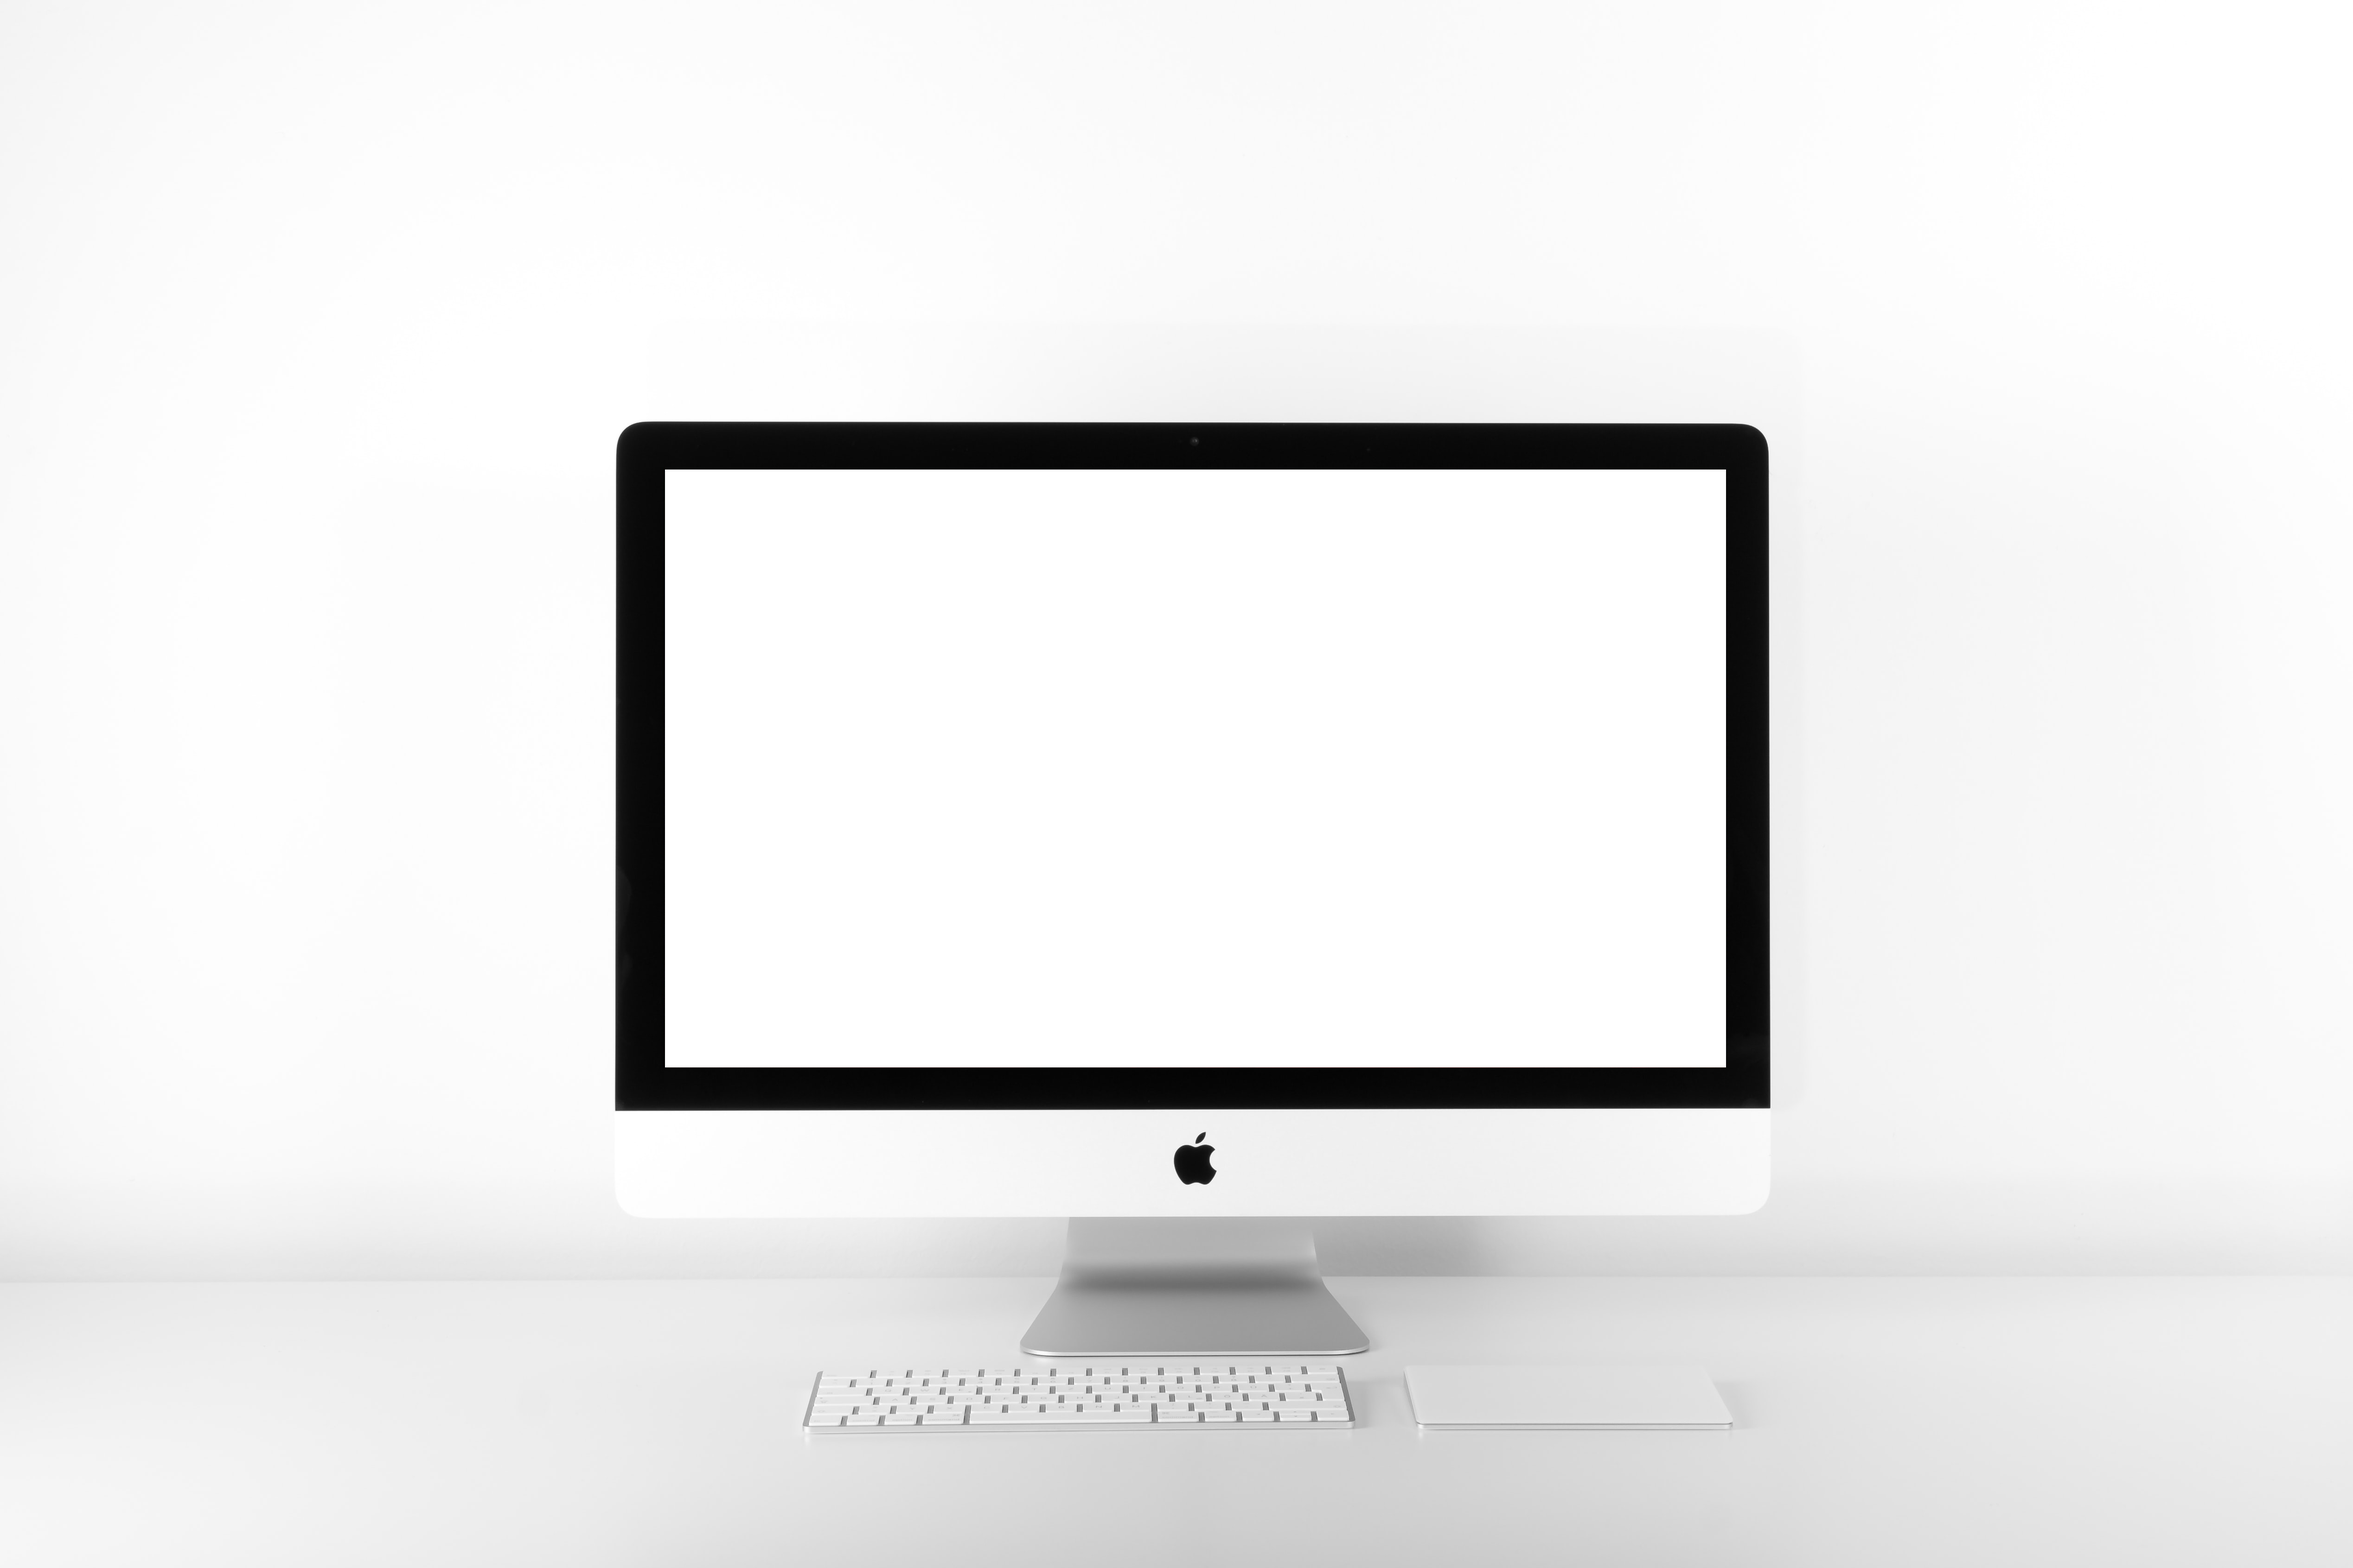
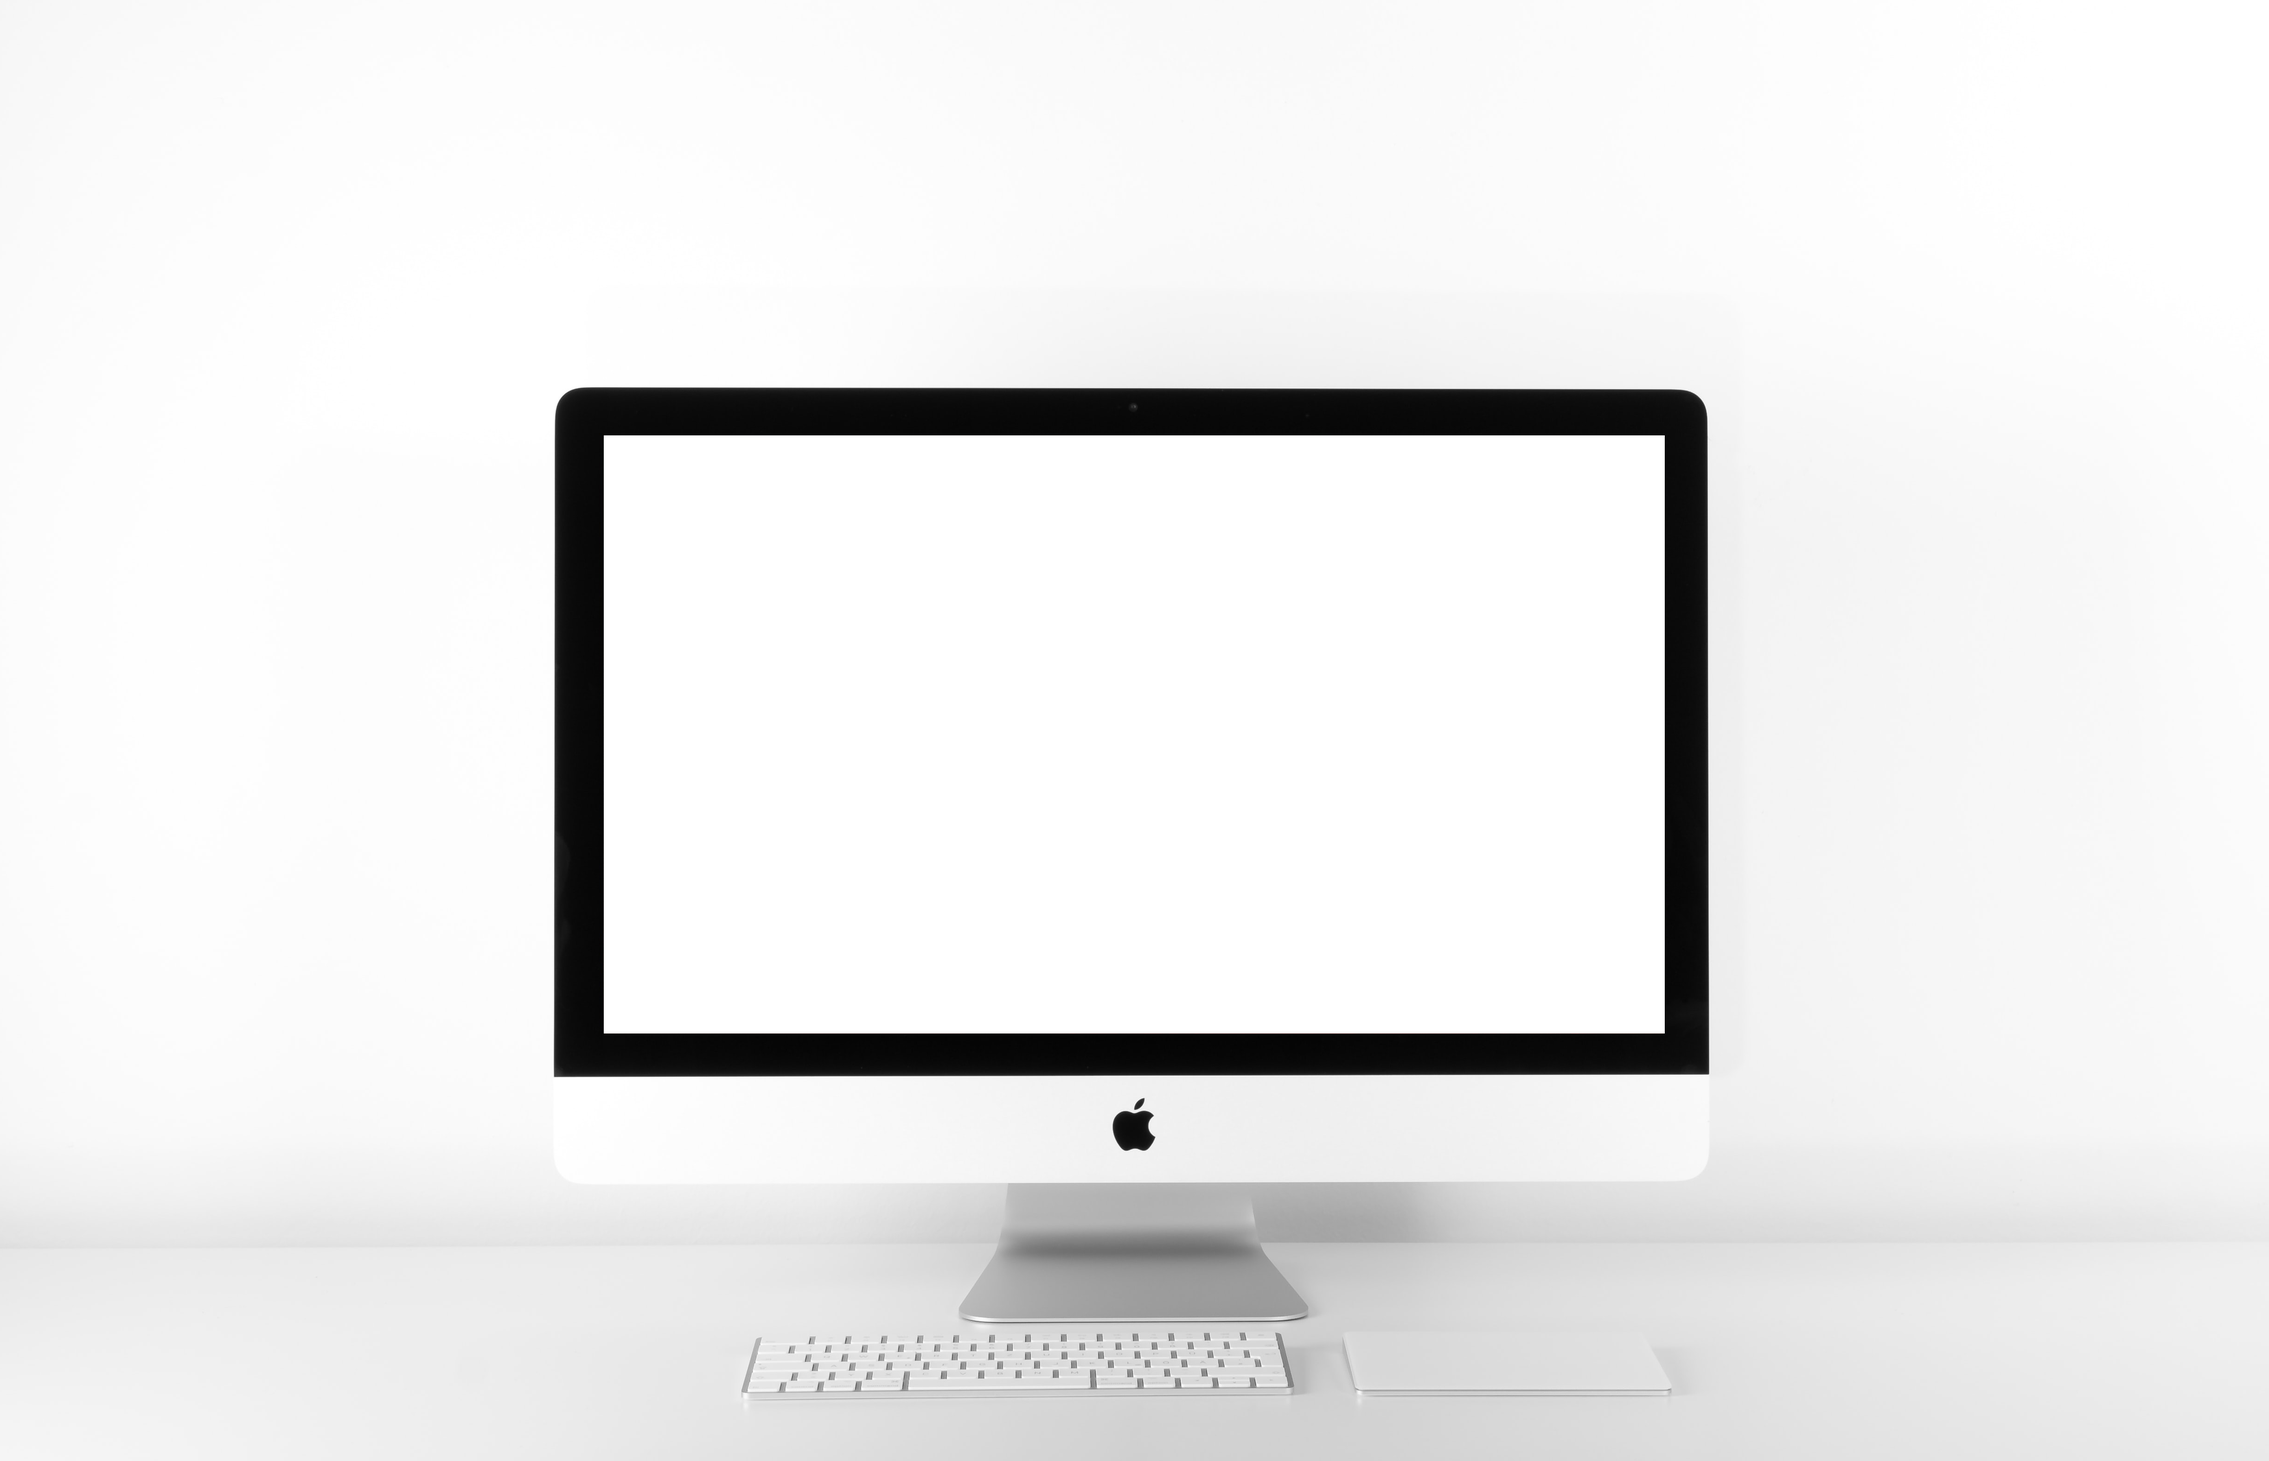
cropped to frame

Changed region(s): [[0.2175, 0.2488, 0.7766, 0.9641]]

diff --git a/src/App.js b/src/App.js
@@ -28,8 +28,10 @@ function App() {
     grommetRef.current.addEventListener('scroll', () => {
       const scroll = grommetRef.current.scrollTop;
       if (scroll < h) {
+        console.log('zooming')
         $('#background-img').css({
-          width: `${100+ scroll/5}%`
+          width: `${100+ 200*scroll/h}%`,
+          height: `${100+ 200*scroll/h}%`
         })
       }
     })

diff --git a/src/Background.js b/src/Background.js
@@ -1,5 +1,5 @@
 import React from 'react';
-import background from './imac-zoomedout.png'
+import background from './imac-cropped.png'
 
 const Background = () => {
 

diff --git a/src/CustomStyles.css b/src/CustomStyles.css
@@ -35,6 +35,7 @@
 .Background img {
   position: absolute;
   width: 100%;
+  height: 100%;
   top: 50%;
   left: 50%;
   transform: translate(-50%, -50%);
